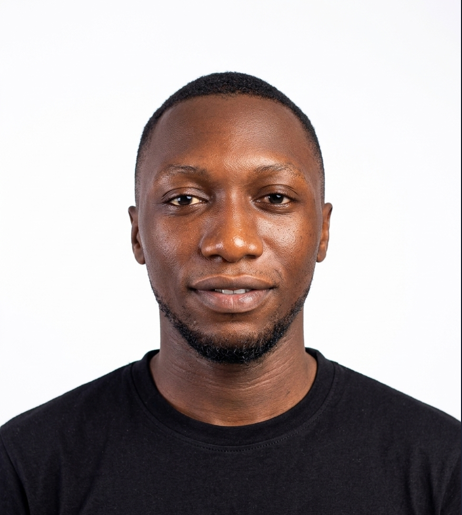
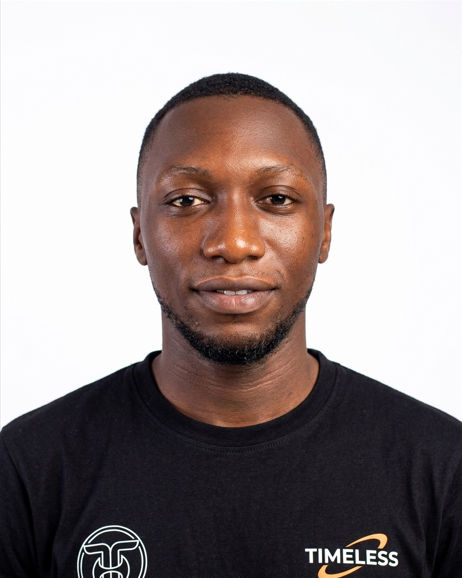
..

diff --git a/src/Components/home.tsx b/src/Components/home.tsx
@@ -71,7 +71,7 @@ const Home = () => {
         >
           <div className="lg:w-4/5 mx-auto">
             <div id="wrapper">
-              <h1 className="glitch text-center text-white relative text-[2em] lg:text-[3.5em] leading-none tracking-[0.1em]" data-text={headerData.headline}>
+              <h1 className="glitch text-center text-white relative text-[3em]  leading-[4rem] tracking-[0.1em]" data-text={headerData.headline}>
                 {headerData.headline}
               </h1>
             </div>
@@ -88,7 +88,7 @@ const Home = () => {
             <p
               key={index}
               style={{ opacity: "0.9" }}
-              className="text-sm md:text-[17px] text-slate-300 my-6 max-w-3xl leading-relaxed mx-auto text-center"
+              className="text-base text-slate-300 my-6 max-w-3xl leading-relaxed mx-auto text-center"
             >
               {paragraph}
             </p>
@@ -103,14 +103,14 @@ const Home = () => {
         >
           <div className="flex text-sm lg:text-base flex-row mt-5 gap-2 lg:gap-4 justify-center items-center">
             <Link
-              href="/work"
-              className="group border border-blue-600 bg-blue-600 px-2 lg:px-8 py-2 lg:py-4 font-medium text-white transition-all duration-300 hover:scale-105 hover:shadow-2xl hover:shadow-green-500/25 inline-flex items-center gap-2"
+              href="/contact"
+              className="group border border-blue-600 bg-blue-600 px-3 lg:px-8 py-3 text-base lg:py-4 font-medium text-white transition-all duration-300 hover:scale-105 hover:shadow-2xl hover:shadow-green-500/25 inline-flex items-center gap-2"
             >
-              View My Work
+                CONTACT
               <BsArrowRight className="w-5 h-5 group-hover:translate-x-1 transition-transform" />
             </Link>
 
-            <button
+            {/* <button
               onClick={handleDownload}
               disabled={isDownloading}
               className={`border-2 px-2 lg:px-8 py-2 lg:py-4 font-medium transition-all duration-300 hover:scale-105 flex items-center gap-2 ${
@@ -124,7 +124,14 @@ const Home = () => {
                 </svg>
               )}
               {isDownloading ? "Downloading..." : "Download Resume"}
-            </button>
+            </button> */}
+
+            <Link
+              href="/work"
+              className="group border-2 border-white/20  px-3 lg:px-8 py-3 lg:py-4 font-base font-medium text-white transition-all duration-300 hover:scale-105 hover:shadow-2xl hover:shadow-green-500/25  gap-2"
+            >
+                SEE MY WORK
+            </Link>
           </div>
         </div>
 
@@ -135,7 +142,7 @@ const Home = () => {
       {/* ─── WORKFLOW ─── */}
       <section className="py-16">
         <div className="flex justify-between items-center">
-          <h1 className="text-medium text-dark font-bold mb-3">MY WORKFLOW</h1>
+          <h1 className="text-small lg:text-medium font-bold mb-3">MY WORKFLOW</h1>
          <div className="flex gap-2 hover:underline">
            <p className="text-xs lg:text-[13px] text-blue-300">Service</p>
             <BsArrowRight className="w-3 h-5 text-blue-300 group-hover:translate-x-1 transition-transform" />
@@ -185,8 +192,8 @@ const Home = () => {
             className="rounded-full w-32 h-32 object-cover"
           />
           <div className="flex-1">
-            <h1 className="text-small font-bold mb-4">{passionBlock.title}</h1>
-            <p className="text-white/80 mb-6">{passionBlock.description}</p>
+            <h1 className="text-small lg:text-medium font-bold mb-4">{passionBlock.title}</h1>
+            <p className="text-white/80 mb-6 text-base">{passionBlock.description}</p>
             <Link
               href={passionBlock.ctaHref}
               className="border border-white/10 px-6 py-3 bg-blue-600 hover:bg-white/10 inline-block"

diff --git a/src/Components/About.tsx b/src/Components/About.tsx
@@ -29,19 +29,18 @@ export default function About() {
   };
       
   return (
-    <section className="py-24 pt-28 ">
+    <section className="py-24 pt-28 container">
       {/* Two column layout: Image left, Content right */}
       <div className=" flex flex-col md:flex-row gap-12 items-center mx-auto">
 
         {/* Left — Photo */}
         
-          <div className="border border-white/10 overflow-hidden w-2/5">
+          <div className="border border-white/10 overflow-hidden lg:w-2/5">
             <img
-              src="/images/profile.png"
+              src="/images/profile1.png"
               alt="Adeyemi Ezekiel"
-              className="w-full h-screen rounded-t-2xl rounded-b-2xl object-cover object-top"
+              className="w-full lg:h-screen rounded-t-2xl rounded-b-2xl object-cover object-top"
             />
-
         </div>
 
         {/* Right — Content */}
@@ -76,9 +75,9 @@ export default function About() {
           <div className="flex flex-col sm:flex-row mt-10 gap-4">
             <Link
               href="/work"
-              className="group border bg-white px-8 py-4 font-medium text-black transition-all duration-300 hover:scale-105 hover:shadow-2xl hover:shadow-green-500/25 inline-flex items-center justify-center gap-2"
+              className="group bg-blue-600 px-8 py-4 font-medium text-white transition-all duration-300 hover:scale-105 hover:shadow-2xl hover:shadow-green-500/25 inline-flex items-center justify-center gap-2"
             >
-              View My Work
+              SEE MY WORK
               <BsArrowRight className="w-5 h-5 group-hover:translate-x-1 transition-transform" />
             </Link>
 

diff --git a/src/Components/services/index.tsx b/src/Components/services/index.tsx
@@ -89,7 +89,7 @@ const services: Service[] = [
 
 export default function Services() {
   return (
-    <section className="pt-[10rem]">
+    <section className="pt-[10rem] container">
       {/* Hero headline */}
       <h1 className="text-medium md:text-medium font-black uppercase text-center mb-8">
         BUILD FAST. SHIP CLEAN. CONVERT MORE.
@@ -119,7 +119,7 @@ export default function Services() {
         {services.map((service, i) => (
           <div
             key={i}
-            className="border border-white/10 bg-[#141414] p-7 flex flex-col justify-between gap-6"
+            className="border border-white/10 bg-[#141414] px-4 py-3 lg:p-7 flex flex-col justify-between gap-6"
           >
             <div>
               {service.subtitle && (

diff --git a/src/app/globals.css b/src/app/globals.css
@@ -19,10 +19,10 @@
     -moz-osx-font-smoothing: grayscale;
   }
 
-  h1, h2, h3, h4, h5, h6 {
+  /* h1, h2, h3, h4, h5, h6 {
     font-family: var(--font-heading), sans-serif;
     font-weight: 900;
-  }
+  } */
 }
 
 #wrapper {

diff --git a/src/Components/recentWork/index.tsx b/src/Components/recentWork/index.tsx
@@ -33,7 +33,7 @@ export default function RecentWork() {
     <section className=" py-16">
       {/* Header */}
       <div className="flex justify-between items-center mb-2">
-        <h2 className="text-medium font-black uppercase tracking-widest">
+        <h2 className="text-small lg:text-medium font-bold uppercase">
           Recent Work
         </h2>
         <Link

diff --git a/src/Components/work/index.tsx b/src/Components/work/index.tsx
@@ -93,7 +93,7 @@ export default function Works() {
       : projects.filter((p) => p.category.includes(active));
 
   return (
-    <section className=" py-16">
+    <section className=" py-16 container">
       {/* Header */}
       <h1 className="text-3xl font-black uppercase tracking-widest mb-2">
         MY WORKS